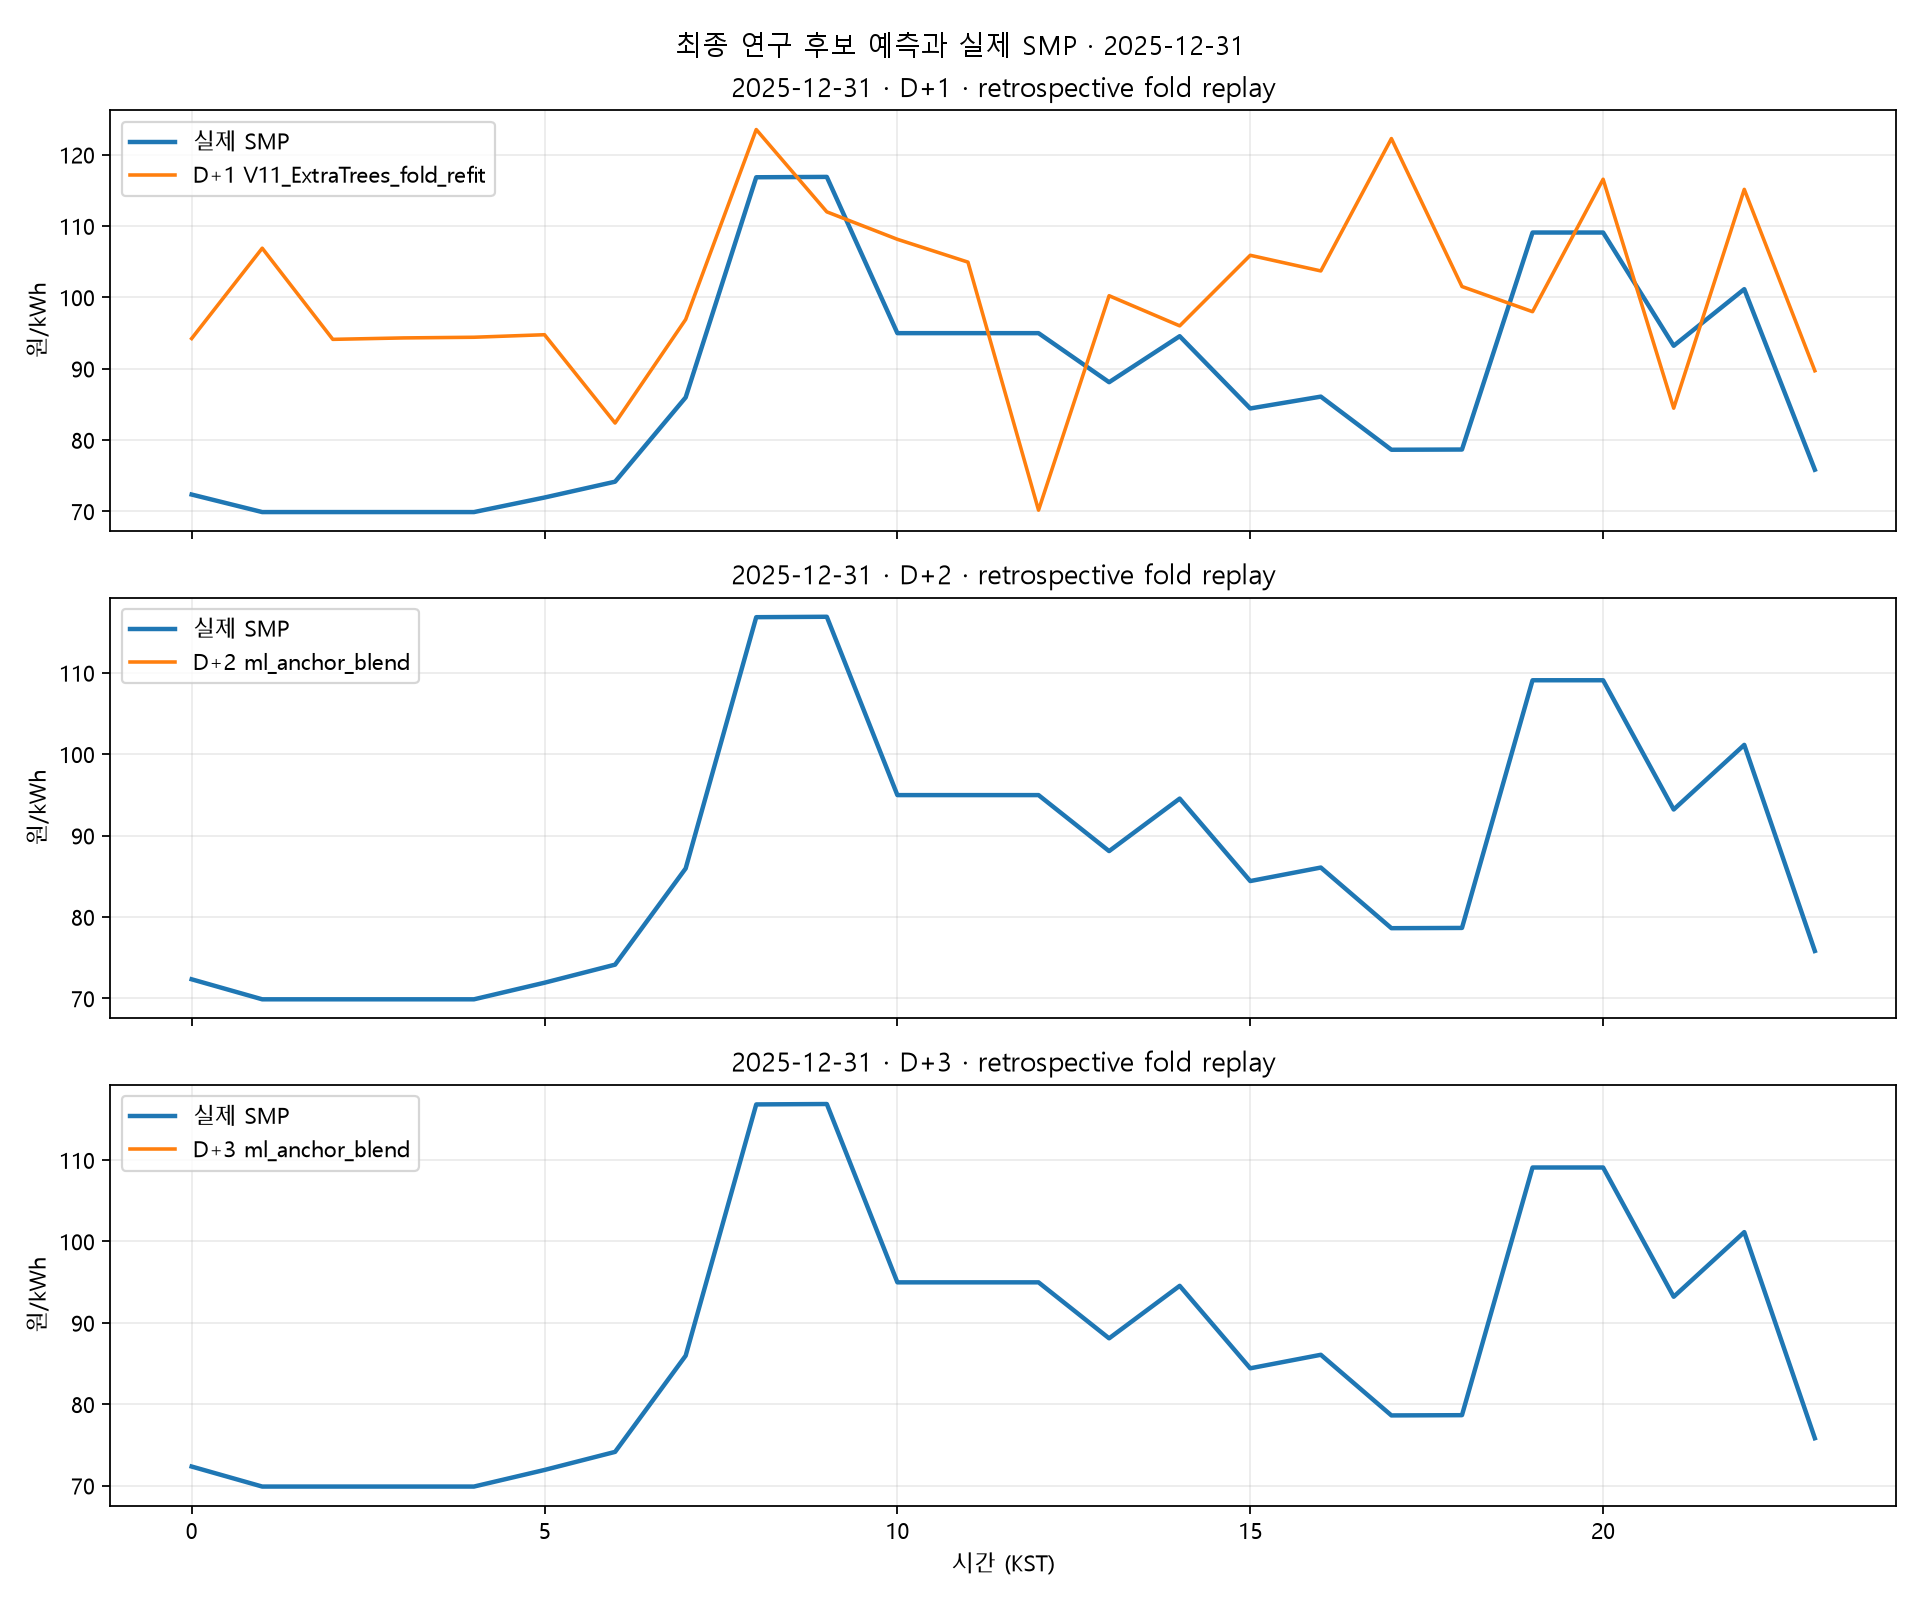
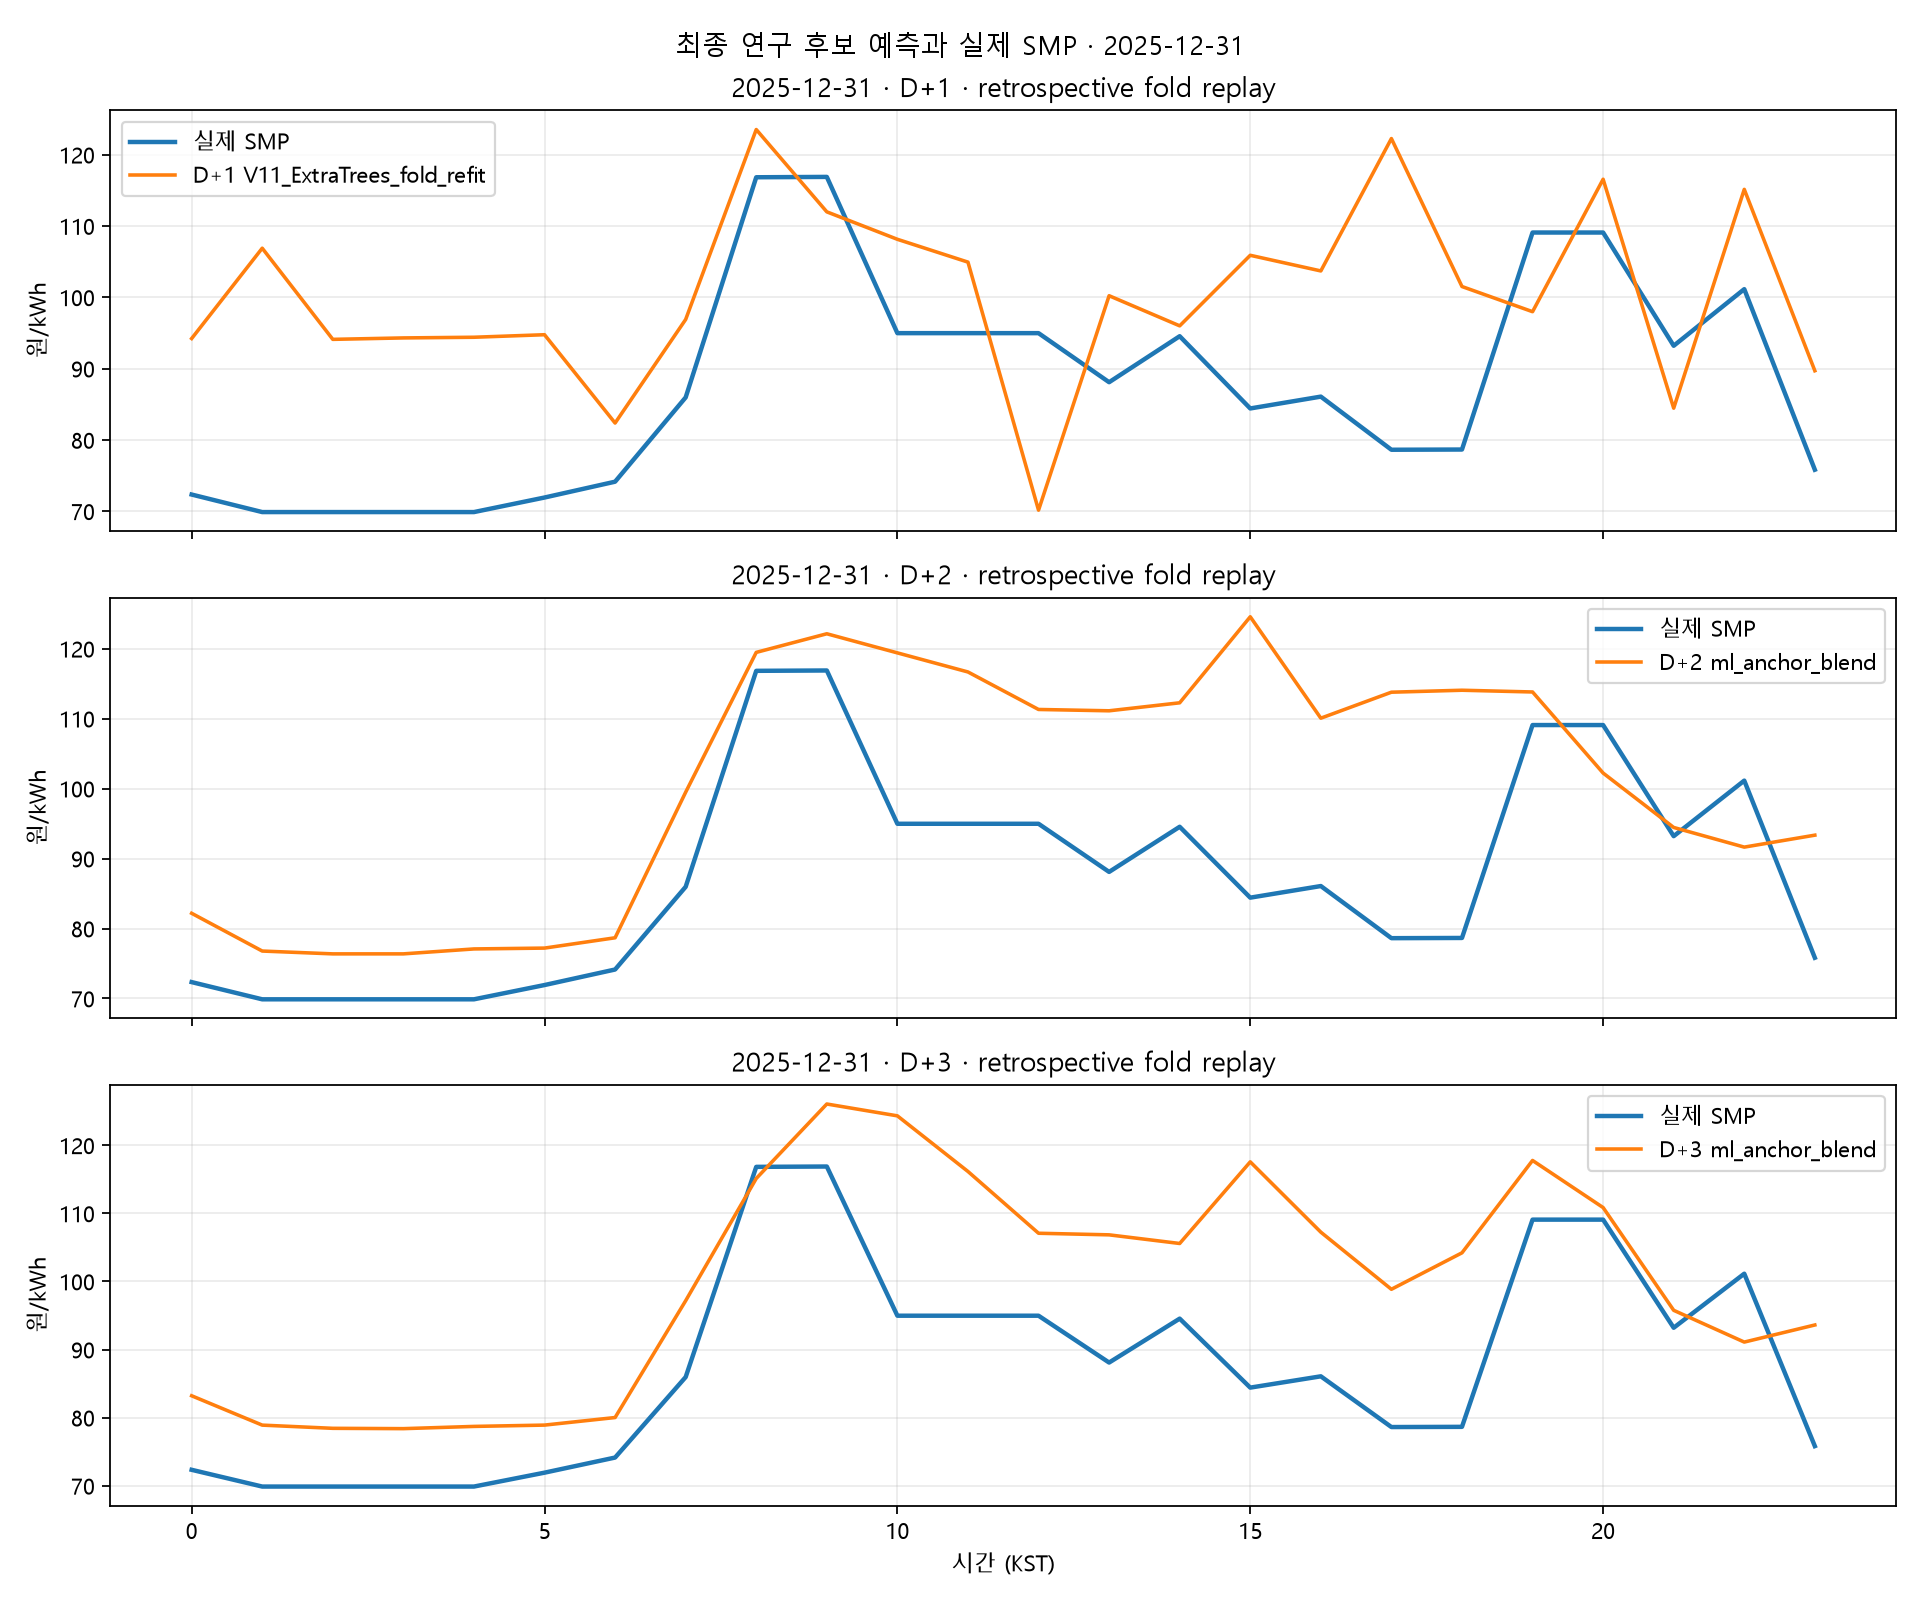
Fix final horizon forecast chart inputs

diff --git a/experiments/smp_performance/finalize_research_outputs.py b/experiments/smp_performance/finalize_research_outputs.py
@@ -60,10 +60,9 @@ def main():
 
     hourly = pd.read_csv(OUT / 'd2_d3_hourly_predictions.csv')
     d1 = pd.read_csv(OUT / 'd1_v11_extratrees_fold_hourly.csv')
-    all_hourly = pd.concat([hourly, d1], ignore_index=True)
-
     folds = {f['name']: f for f in json.loads((OUT / 'study_manifest.json').read_text(encoding='utf-8'))['folds']}
     old_hourly = pd.read_csv(ROOT / 'docs' / 'smp_improvement_ml' / 'hourly_predictions.csv')
+    all_hourly = pd.concat([hourly, d1, old_hourly], ignore_index=True)
     parts = []
 
     def add_series(source, horizon, models, source_name):
@@ -115,7 +114,7 @@ def main():
     pd.concat(chosen_hourly, axis=1).rename_axis('hour').reset_index().to_csv(OUT / 'final_hourly_mae.csv', index=False)
 
     day = '2025-12-31'
-    chosen_series = {1: ('V11_ExtraTrees_fold_refit', d1), 2: ('ml_anchor_blend', hourly), 3: ('ml_anchor_blend', hourly)}
+    chosen_series = {1: ('V11_ExtraTrees_fold_refit', d1), 2: ('ml_anchor_blend', old_hourly), 3: ('ml_anchor_blend', old_hourly)}
     fig, axes = plt.subplots(3, 1, figsize=(12, 10), sharex=True)
     for ax, (h, (model, data)) in zip(axes, chosen_series.items()):
         actual = data[(data.horizon_days == h) & (data.target_date == day)].drop_duplicates('hour').sort_values('hour')
